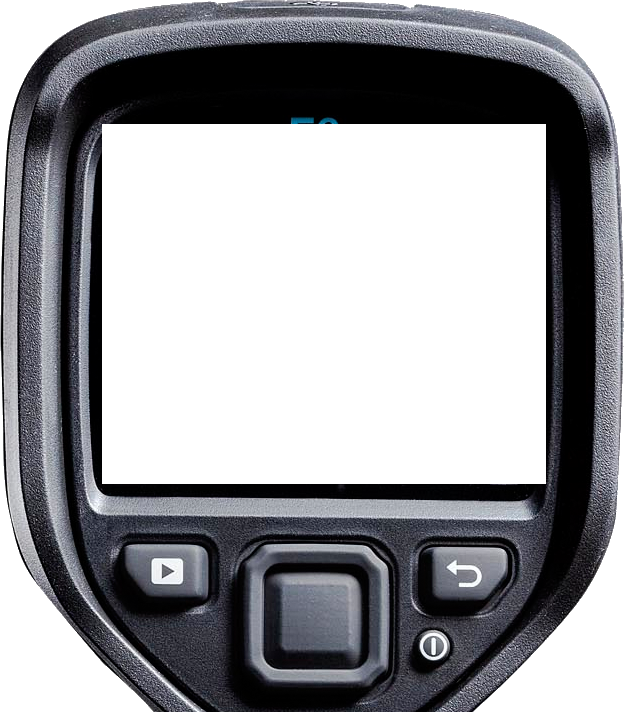
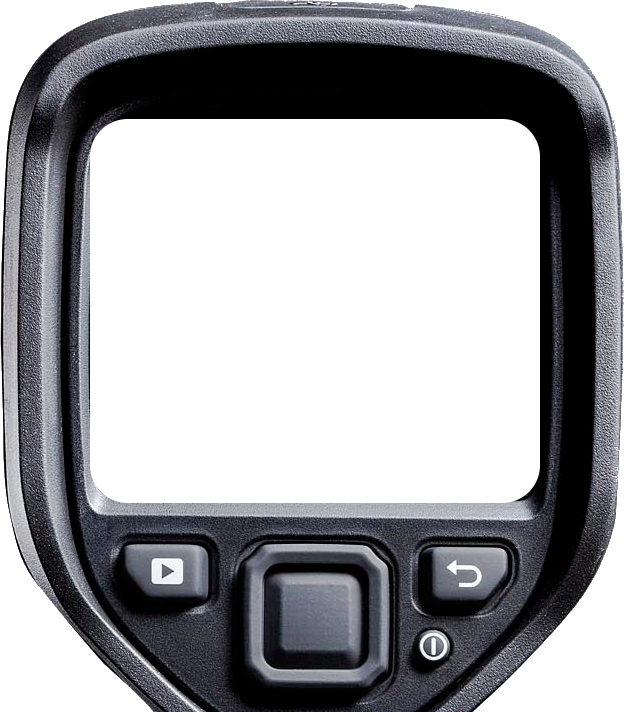
Enhance ircamera tool image Render IR image below IR camera for more realistic look

Changed region(s): [[0.1218, 0.1854, 0.8526, 0.7107], [0.1827, 0.1545, 0.883, 0.6798]]

diff --git a/public_html/simbuilding.js b/public_html/simbuilding.js
@@ -87,8 +87,8 @@ function render() {
 
         if (irMode) {
             if ($("#tool-ircamera").css("opacity") === "1") {
-                var irWidth = 450;
-                renderer.setViewport(window.innerWidth / 2 - irWidth / 2 + 10, 200, irWidth, irWidth);
+                var irWidth = 460;
+                renderer.setViewport(window.innerWidth / 2 - irWidth / 2 + 5, 200, irWidth, irWidth);
                 camera.fov = 25;
                 camera.aspect = 1;
                 camera.updateProjectionMatrix();
@@ -399,33 +399,37 @@ function animateDoor() {
 }
 
 function toggleTool(tool) {
-    if (tool !== 0)
-        $("#tool-ircamera-small").animate({opacity: 1});
-    if (tool !== 1)
-        $("#tool-moisture-small").animate({opacity: 1});
-    if (tool !== 2)
-        $("#tool-temperature-small").animate({opacity: 1});
-
-    $("#tool-ircamera").fadeOut();
-    $("#tool-moisture").fadeOut();
-    $("#tool-temperature").fadeOut();
-
-    irMode = false;
-    var opacityOff = 0.3;
-
-    if (tool === 0) {
-        $("#tool-ircamera").fadeIn();
-        $("#tool-ircamera-small").animate({opacity: opacityOff});
-        irMode = true;
-    } else if (tool === 1) {
-        $("#tool-moisture").fadeIn();
-        $("#tool-moisture-small").animate({opacity: opacityOff});
-    } else if (tool === 2) {
-        $("#tool-temperature").fadeIn();
-        $("#tool-temperature-small").animate({opacity: opacityOff});
-    } else if (tool === 3) {
+    if (tool === 3) {
         blowdoorMode = !blowdoorMode;
         document.getElementById("fan").src = "resources/images/fan-" + (blowdoorMode ? "animated.gif" : "still.gif");
+        hotspot = null;
+        updateQuiz();
+    } else {
+        if (tool !== 0)
+            $("#tool-ircamera-small").animate({opacity: 1});
+        if (tool !== 1)
+            $("#tool-moisture-small").animate({opacity: 1});
+        if (tool !== 2)
+            $("#tool-temperature-small").animate({opacity: 1});
+
+        $("#tool-ircamera").fadeOut();
+        $("#tool-moisture").fadeOut();
+        $("#tool-temperature").fadeOut();
+
+        irMode = false;
+        var opacityOff = 0.3;
+
+        if (tool === 0) {
+            $("#tool-ircamera").fadeIn();
+            $("#tool-ircamera-small").animate({opacity: opacityOff});
+            irMode = true;
+        } else if (tool === 1) {
+            $("#tool-moisture").fadeIn();
+            $("#tool-moisture-small").animate({opacity: opacityOff});
+        } else if (tool === 2) {
+            $("#tool-temperature").fadeIn();
+            $("#tool-temperature-small").animate({opacity: opacityOff});
+        }
     }
     doRender = true;
 }

diff --git a/public_html/index.html b/public_html/index.html
@@ -57,8 +57,15 @@
                  margin: 0 auto;
                  ">
                 <div style="position: absolute; left: -50%; width: 624px; height: 712px">
+                    <img src="resources/images/tool-ircamera2.png" alt="" width="624" height="712" usemap="#IRCameraButtons" style="position: absolute; z-index: 1"/>
+                    <map name="IRCameraButtons">
+                        <area shape="rect" coords="120,540,210,600" alt="Play" href="" />
+                        <area shape="rect" coords="420,540,510,600" alt="Reset" href="" />
+                        <area shape="rect" coords="260,565,360,665" alt="Chart" href="" />
+                        <area shape="circle" coords="432,647,20" alt="Off" href='javascript: toggleTool(-1)' />
+                    </map>
                     <img id="target" src="resources/images/target.png" alt="" style="position: absolute; left: 250px; top: 220px"/>
-                    <div id="quiz" style="position: absolute; left: 100px; top: 123px; width: 425px; height: 360px; background-size: 100% 100%; padding: 10px; display: none"
+                    <div id="quiz" style="position: absolute; left: 70px; top: 103px; width: 450px; height: 400px; background-size: 100% 100%; padding: 10px; display: none"
                          onmousedown="toggleQuizQuestion();">
                         <form id="quizYesNo" style="display: none">
                             <h1>Investigate</h1>
@@ -85,13 +92,6 @@
                         <div id="quizIncorrect" style="display: none; font-size: xx-large; text-align: center; ; padding-top: 80px">Incorrect!</div>
                         <div id="quizAlreadyChecked" style="display: none; font-size: xx-large; text-align: center; ; padding-top: 80px">Already Checked!</div>
                     </div>
-                    <img src="resources/images/tool-ircamera.png" alt="" width="624" height="712" usemap="#IRCameraButtons" />
-                    <map name="IRCameraButtons">
-                        <area shape="rect" coords="120,540,210,600" alt="Play" href="" />
-                        <area shape="rect" coords="420,540,510,600" alt="Reset" href="" />
-                        <area shape="rect" coords="260,565,360,665" alt="Chart" href="" />
-                        <area shape="circle" coords="432,647,20" alt="Off" href='javascript: toggleTool(-1)' />
-                    </map>
                 </div>
             </div>
             <div id="tool-moisture" style="

diff --git a/public_html/quiz.js b/public_html/quiz.js
@@ -1,4 +1,4 @@
-/* global THREE, scene */
+/* global THREE, scene, blowdoorMode */
 
 "use strict";
 
@@ -128,7 +128,10 @@ function updateQuiz() {
                         alreadyAnswered.push(hotspot);
                     });
                 }
-                filename = selectedQuizData.ThermogramWithoutBlowerDoor;
+                if (blowdoorMode)
+                    filename = selectedQuizData.ThermogramWithBlowerDoor;
+                else
+                    filename = selectedQuizData.ThermogramWithoutBlowerDoor;
             } else
                 filename = newHotspot + ".jpg";
             div.css("background-image", "url(resources/images/" + filename + ")");
